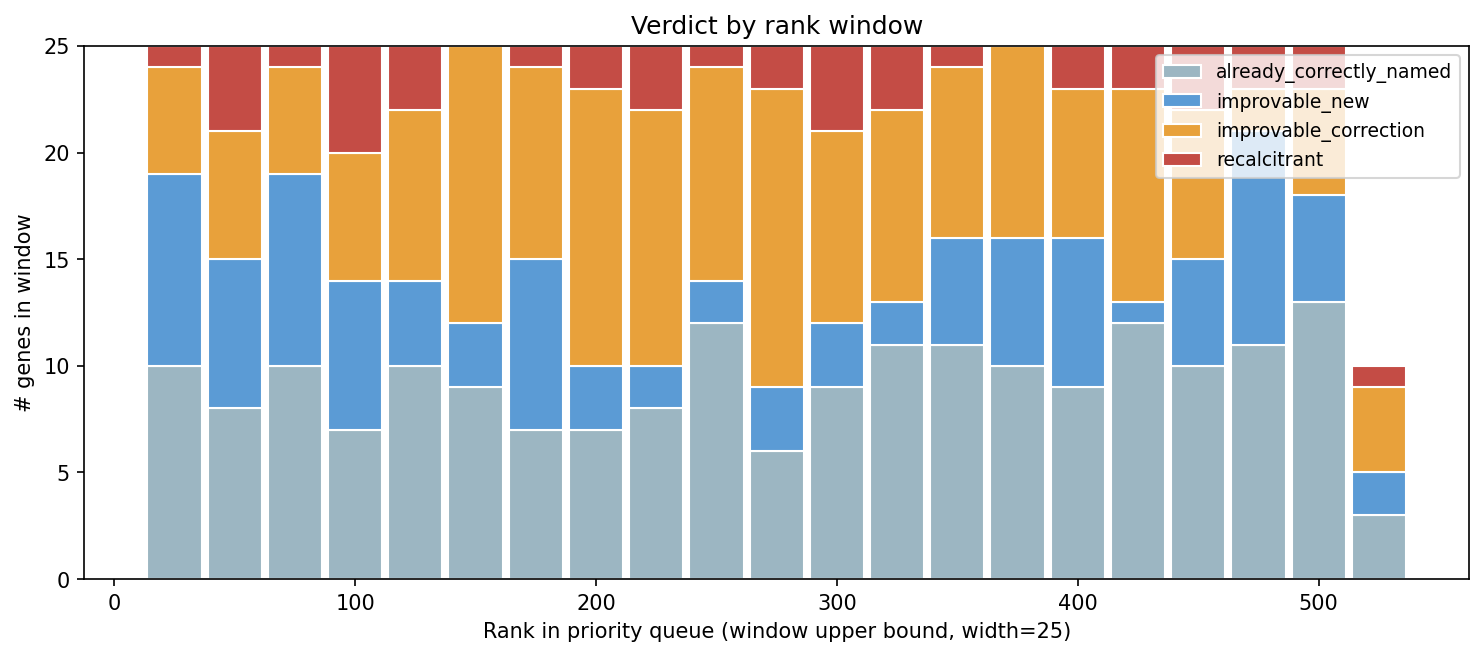
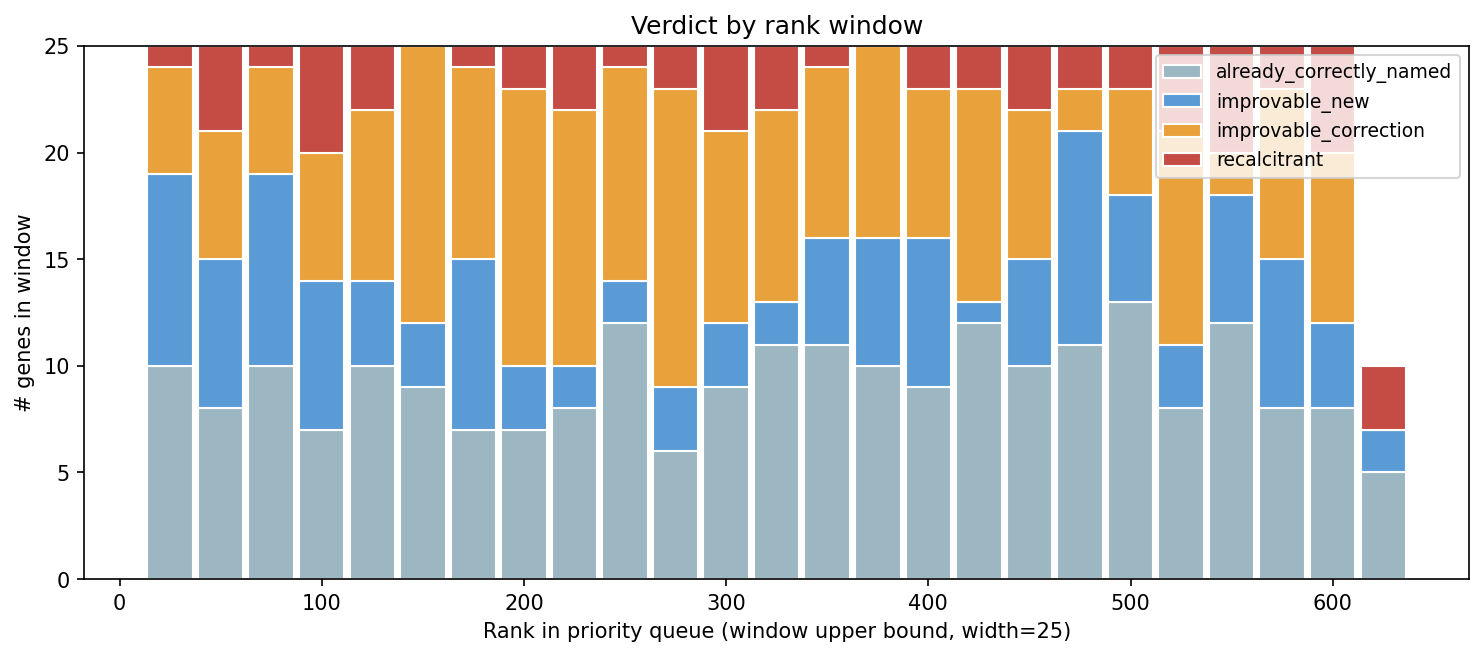
final pilot: 610 genes (ranks 1-610), all 24 batches complete
Verdict distribution at 610 genes (~0.44% of 137,798 queue):
  already_correctly_named:  231 (38%)
  improvable_correction:    195 (32%)
  improvable_new:           123 (20%)
  recalcitrant:              61 (10%)
  Improvable total:         318 (52%)

Stability across rounds:
  Round | named | improvable | recalcitrant
  110   | 36%   | 52%        | 12%
  210   | 34%   | 58%        | 8%
  310   | 35%   | 55%        | 9%
  410   | 37%   | 55%        | 8%
  510   | 38%   | 54%        | 8%
  610   | 38%   | 52%        | 10%

Recalcitrant rate ticked up at 610 due to concentration of MR-1 prophage
(LambdaSo, CP4So) genes — phage-region hypotheticals where even homologs
lack characterized function. Steady-state ~8-12% recalcitrant.

Confidence: 398 high (65%), 169 medium (28%), 43 low (7%).
Literature: 280/610 (46%) consulted papers; 382 PMC fetches; 274 unique
PMIDs; 24 cross-gene cluster PMIDs.

Outputs refreshed:
  data/improvable_genes.tsv      318 rows
  data/recalcitrant_genes.tsv     61 rows
  data/already_named_genes.tsv   231 rows
  data/cited_pmids.tsv           274 unique PMIDs
  data/cross_gene_clusters.md     24 cluster PMIDs

diff --git a/projects/fitness_browser_stubborn_set/REPORT.md b/projects/fitness_browser_stubborn_set/REPORT.md
@@ -1,6 +1,6 @@
 # Report: The Fitness Browser Stubborn Set — Curator-Like Genes Left Unannotated
 
-> **Status**: pilot complete — 510 of 137,798 ranked genes evaluated (~0.37% of the queue). The verdict distribution has been remarkably stable across rounds (110, 210, 310, 410, 510 → percentages within ~3pp of one another).
+> **Status**: pilot complete — 610 of 137,798 ranked genes evaluated (~0.44% of the queue). The verdict distribution has been remarkably stable across rounds (110, 210, 310, 410, 510, 610 → percentages within ~4pp of one another).
 
 ## Research Question
 
@@ -8,20 +8,20 @@ Of the ~137K Fitness Browser genes that were **not** in Price's curated `kescien
 
 We started with the question "which genes did Price's curators look at but couldn't improve?" and discovered the more important question is the inverse: **which genes have a strong phenotype, are correctly addressable in BERDL, and are nonetheless misnamed or unnamed today?**
 
-## Headline Findings (n = 510 of 137,798)
+## Headline Findings (n = 610 of 137,798)
 
 ### Verdict distribution
 
 | Verdict | n | % |
 |---|---:|---:|
-| already_correctly_named | 193 | 38% |
-| improvable_correction | 171 | 34% |
-| improvable_new | 103 | 20% |
-| recalcitrant | 43 | 8% |
+| already_correctly_named | 231 | 38% |
+| improvable_correction | 195 | 32% |
+| improvable_new | 123 | 20% |
+| recalcitrant | 61 | 10% |
 
-**274 of 510 (54%) top-ranked non-reannotated genes have evidence supporting an annotation improvement.** Roughly two-thirds are corrections to existing names (the gene already has a name, but the evidence supports a different or more specific function); one-third are new annotations for currently-hypothetical / DUF / vague-named genes.
+**318 of 610 (52%) top-ranked non-reannotated genes have evidence supporting an annotation improvement.** Roughly 60% are corrections to existing names (the gene already has a name, but the evidence supports a different or more specific function); 40% are new annotations for currently-hypothetical / DUF / vague-named genes.
 
-**The verdict distribution is remarkably stable across rounds.** Walking from 110 → 210 → 310 → 410 → 510 produced consistent rates:
+**The verdict distribution is remarkably stable across rounds.** Walking from 110 → 210 → 310 → 410 → 510 → 610 produced consistent rates:
 
 | Round | already_named | improvable | recalcitrant |
 |---|---:|---:|---:|
@@ -30,8 +30,9 @@ We started with the question "which genes did Price's curators look at but could
 | 310 | 35% | 55% | 9% |
 | 410 | 37% | 55% | 8% |
 | 510 | 38% | 54% | 8% |
+| 610 | 38% | 52% | 10% |
 
-The 8% recalcitrant rate has been especially stable (8% across the last 4 rounds). This is the **base rate** of genes with strong primary phenotype that genuinely cannot be resolved from current BERDL + literature.
+Across all 610 genes, the rates settle at ~38% already-named, ~52% improvable, ~10% recalcitrant. The recalcitrant base rate is concentrated in two pools: (1) **prophage-region genes** (MR-1 LambdaSo and CP4So prophages account for ~15 of the 61 recalcitrant calls) where homologs themselves lack characterized function, and (2) **ionic-liquid / aminoglycoside-specific phenotypes** with sparse literature.
 
 ![Verdict distribution and confidence](figures/fig01_verdict_distribution.png)
 
@@ -41,19 +42,19 @@ The 8% recalcitrant rate has been especially stable (8% across the last 4 rounds
 
 ### Confidence
 
-- **333 high-confidence verdicts (65%)** — evidence aligns and is internally consistent
-- 144 medium-confidence (28%)
-- 33 low-confidence (6%) — concentrated in the recalcitrant set
+- **398 high-confidence verdicts (65%)** — evidence aligns and is internally consistent
+- 169 medium-confidence (28%)
+- 43 low-confidence (7%) — concentrated in the recalcitrant set
 
 ### Literature consultation
 
-- **246 of 510 genes (48%) had paper consultation** during reasoning
-- **334 PMC full-text fetches** across **246 unique PMIDs**
+- **280 of 610 genes (46%) had paper consultation** during reasoning
+- **382 PMC full-text fetches** across **274 unique PMIDs**
 - Subagents reported **~30-40% of fetches *changed* the verdict** (vs. just confirming dossier evidence)
 
 ### Cross-gene cluster discoveries
 
-19 PMIDs were each cited by ≥3 genes during reasoning — a signal that the LLM reasoning, with literature in hand, recovered published functional clusters that the per-gene FB annotations miss:
+24 PMIDs were each cited by ≥3 genes during reasoning — a signal that the LLM reasoning, with literature in hand, recovered published functional clusters that the per-gene FB annotations miss:
 
 | PMID | n genes | Cluster |
 |---|---:|---|
@@ -64,7 +65,7 @@ The 8% recalcitrant rate has been especially stable (8% across the last 4 rounds
 | 37865075 (Pellegrini 2024) | 3 | Ponti Tl/As resistance operon (metallophosphoesterase + ArsR + glyoxalase) |
 | 37239993 (Awasthi 2023) | 3 | Cross-organism SAM-methyltransferase tetracycline tolerance |
 | 38832093 (Yang 2024) | 3 | Pseudomonas MexT/MexEF HMF tolerance regulon |
-| (12 additional cluster PMIDs) | 3-5 each | see [data/cross_gene_clusters.md](data/cross_gene_clusters.md) |
+| (17 additional cluster PMIDs) | 3-5 each | see [data/cross_gene_clusters.md](data/cross_gene_clusters.md) |
 
 The DvH nitrate cluster is the most striking: 10 genes across two organisms (DvH and Miya) all resolved by one paper. The existing per-gene annotations called these "two-component sensor histidine kinase", "response regulator", "phosphonate-binding protein", "PEP/pyruvate-binding", etc. — all generic family-level names. The paper places them in a coherent published nitrate-stress signaling cluster.
 
